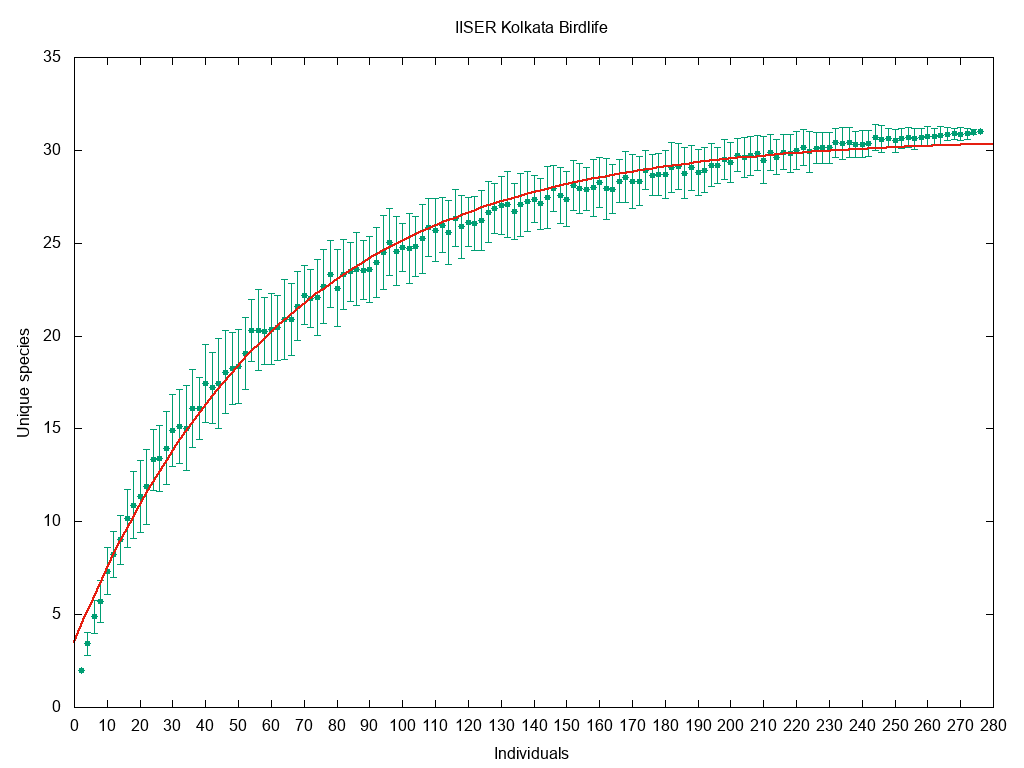
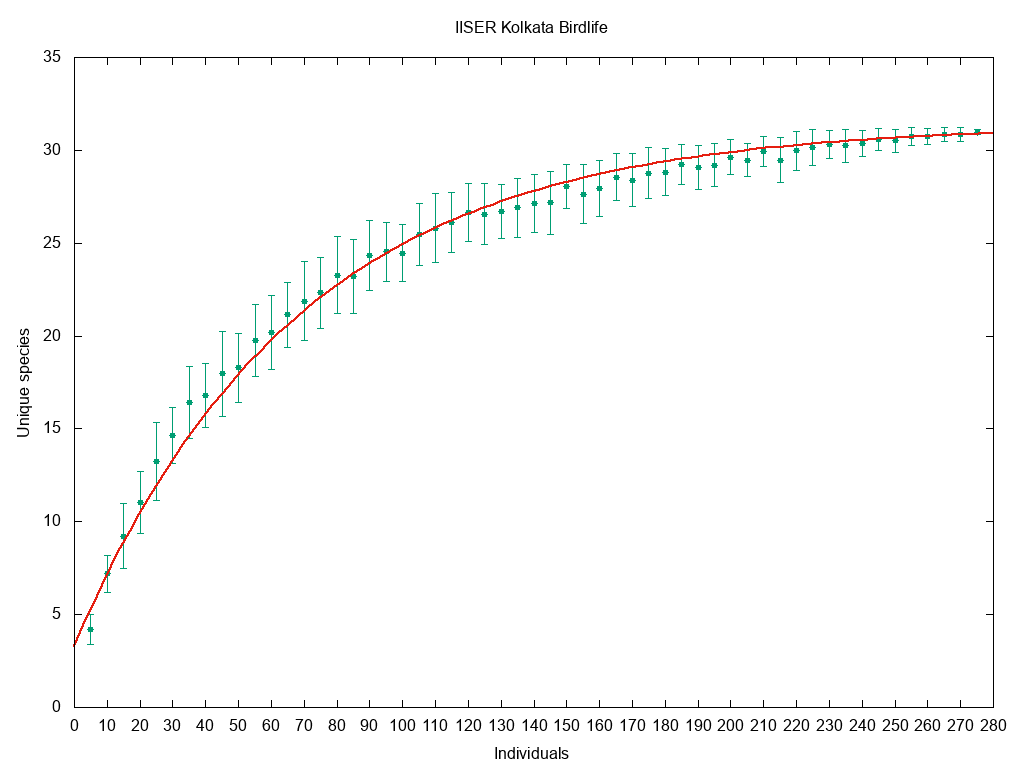
Updated species-individual curve

Changed region(s): [[0.0938, 0.1562, 0.9688, 0.7812], [0.0625, 0.7812, 0.0938, 0.8438]]

diff --git a/LS1102/species_individual.py b/LS1102/species_individual.py
@@ -16,7 +16,7 @@ def count_unique(l):
     return len(set(l))
 
 trials = 50
-for i in range(2, n + 2, 2):
+for i in range(5, n, 5):
     counts = []
     for j in range(trials):
         counts.append(count_unique(random.sample(individuals, i)))
